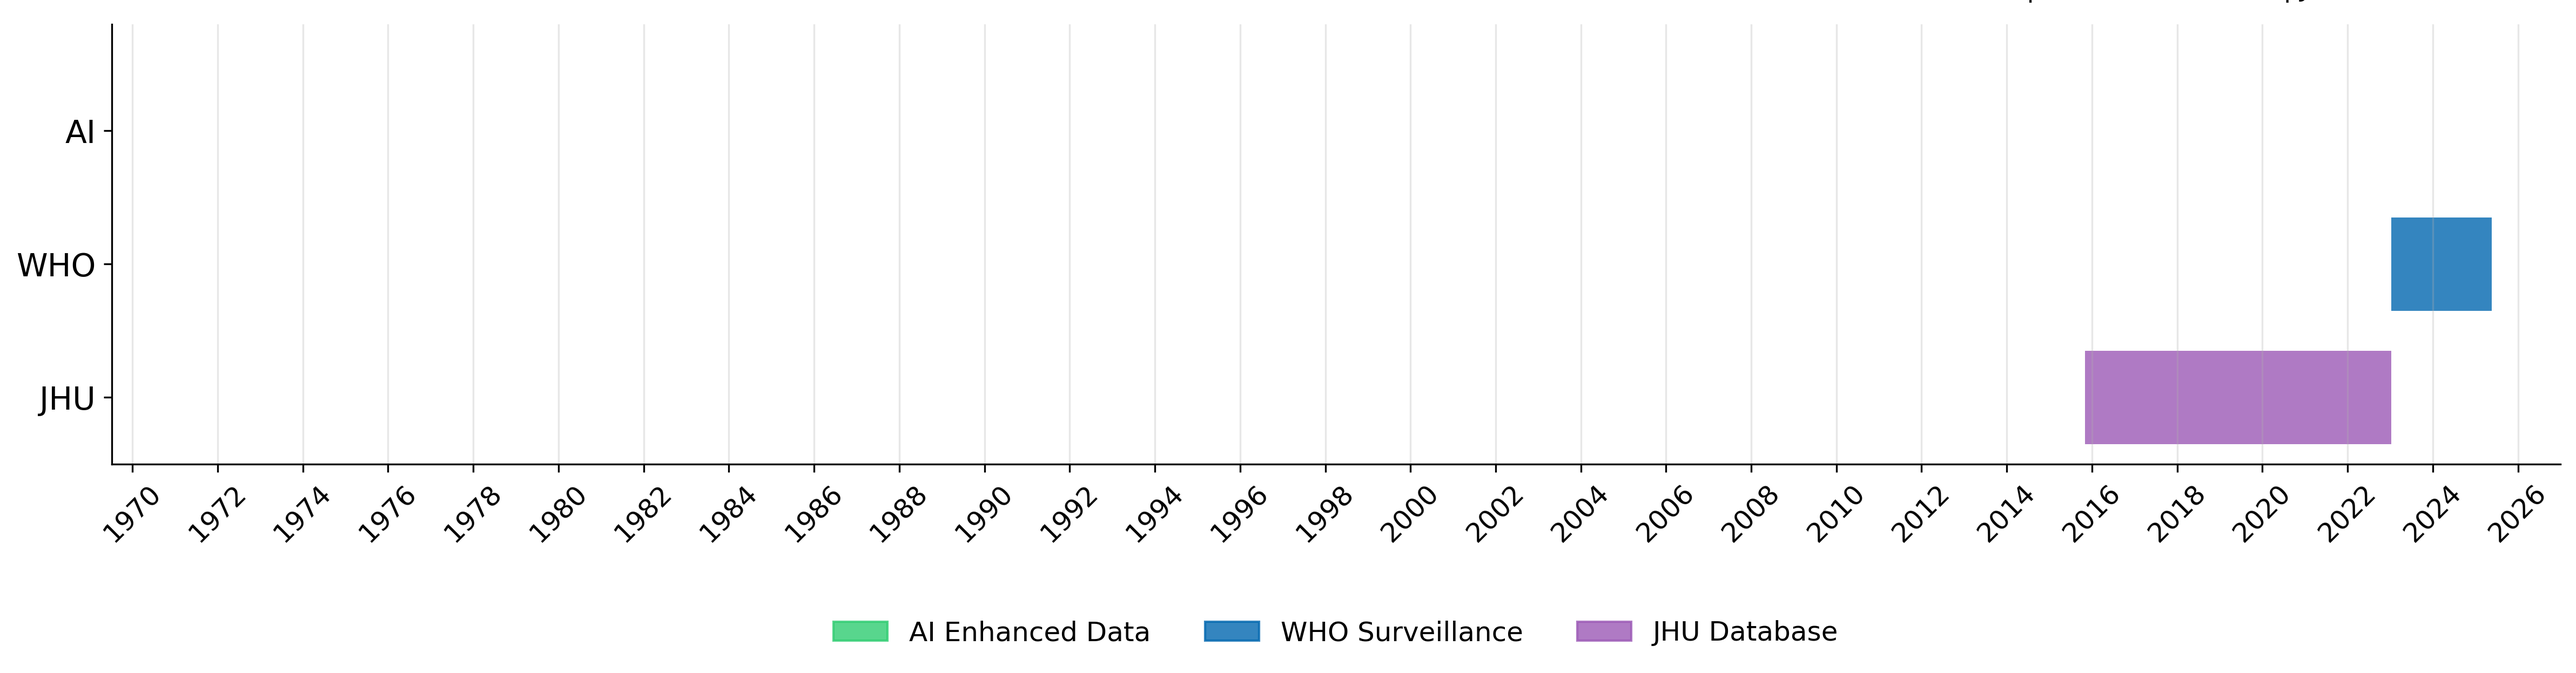
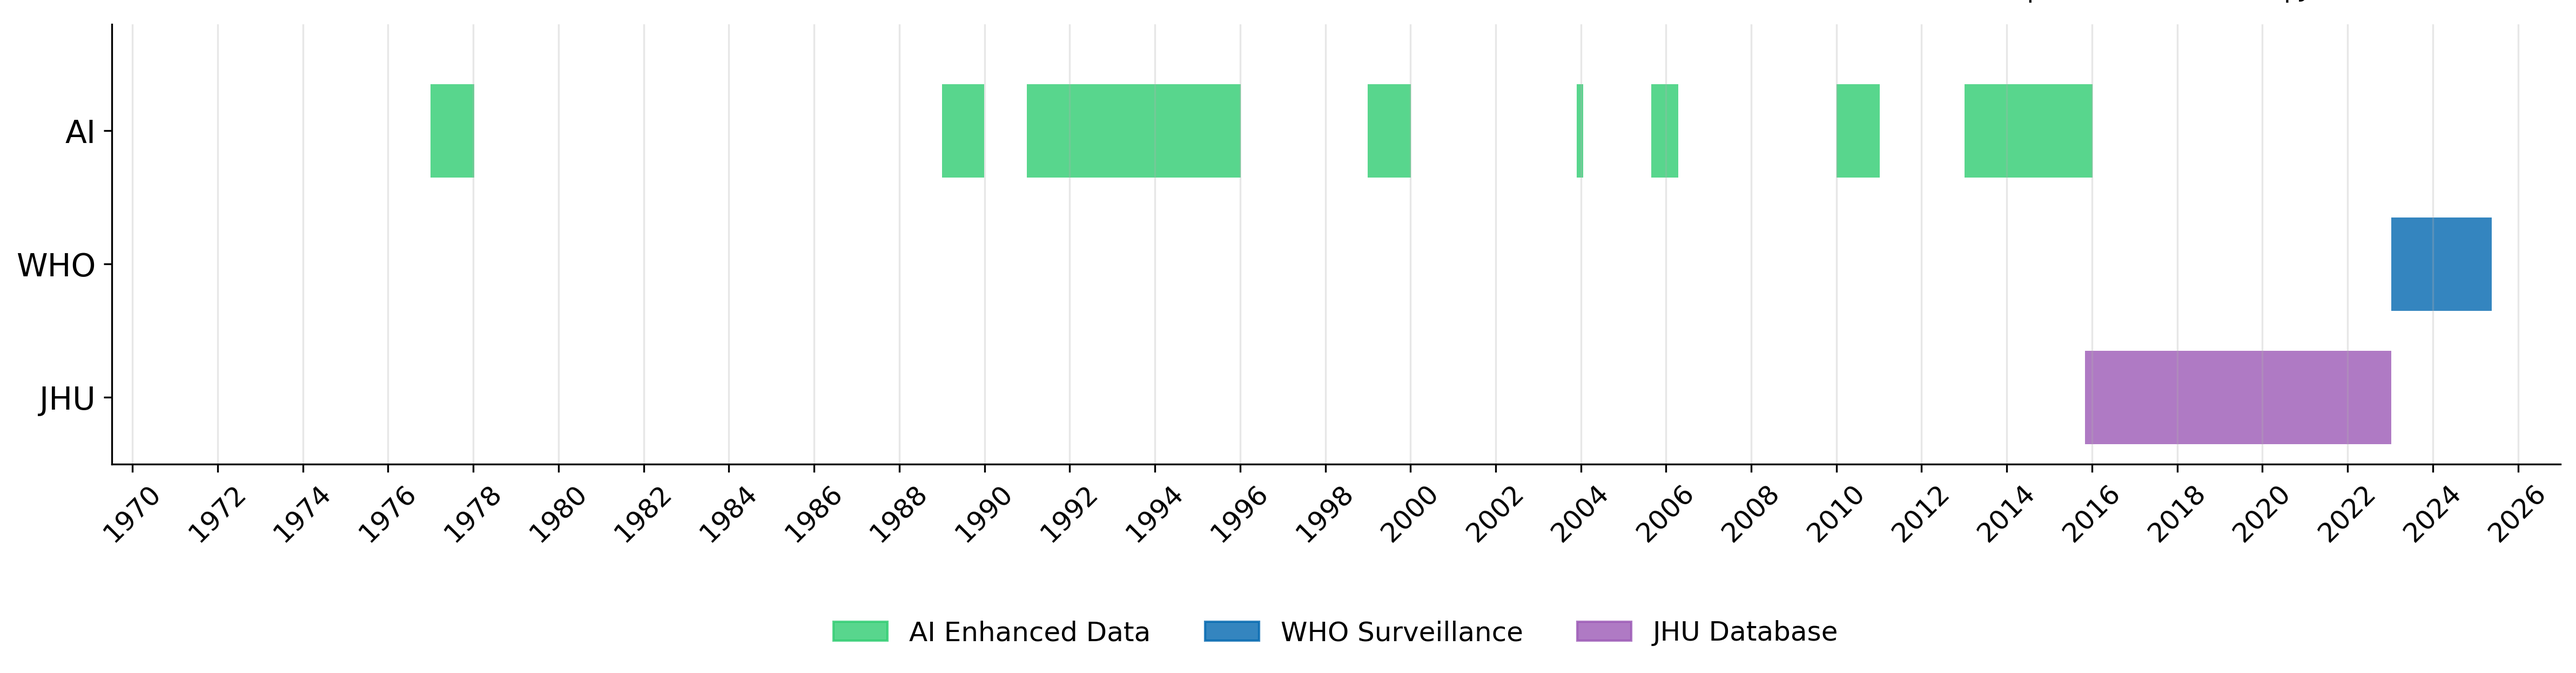
Auto-update dashboard data - 2025-08-01 21:08:57 - Generated with Claude Code

diff --git a/dashboard/dashboard.html b/dashboard/dashboard.html
@@ -2178,29 +2178,29 @@
                 "country": "Zambia",
                 "iso": "ZMB",
                 "status": "PENDING",
-                "datetime": "2025-08-01 20:51:24",
-                "sources": 0,
-                "observations": 0,
-                "date_range": "",
-                "priority": "",
+                "datetime": "2025-08-01 21:06:06",
+                "sources": 4,
+                "observations": 11,
+                "date_range": "1977-2015",
+                "priority": "HIGH",
                 "execution_time": 0,
                 "queries": 0,
                 "yield_pct": 0.0,
-                "notes": "Agent 1 initialized - starting work"
+                "notes": "Agent 1 completed; 11 data observations | Manual: Agent 1 initialized - starting work"
         },
         {
                 "country": "Zimbabwe",
                 "iso": "ZWE",
                 "status": "PENDING",
-                "datetime": "2025-08-01 20:51:27",
-                "sources": 0,
-                "observations": 0,
-                "date_range": "",
-                "priority": "",
+                "datetime": "2025-08-01 21:08:00",
+                "sources": 6,
+                "observations": 11,
+                "date_range": "1992-2025",
+                "priority": "HIGH",
                 "execution_time": 0,
                 "queries": 0,
                 "yield_pct": 0.0,
-                "notes": "Agent 1 completed | Manual: No activity detected"
+                "notes": "Agent 1 completed; 11 data observations | Manual: No activity detected"
         }
 ];
         
@@ -3826,8 +3826,8 @@ Togo,TGO,1230,66,343
 Tanzania,TZA,1108,122,239
 Uganda,UGA,813,127,319
 South Africa,ZAF,720,0,0
-Zambia,ZMB,0,122,373
-Zimbabwe,ZWE,0,119,268`;
+Zambia,ZMB,670,122,373
+Zimbabwe,ZWE,492,119,268`;
 
         // Global variable to store week counts data
         let weekCountsData = {};
